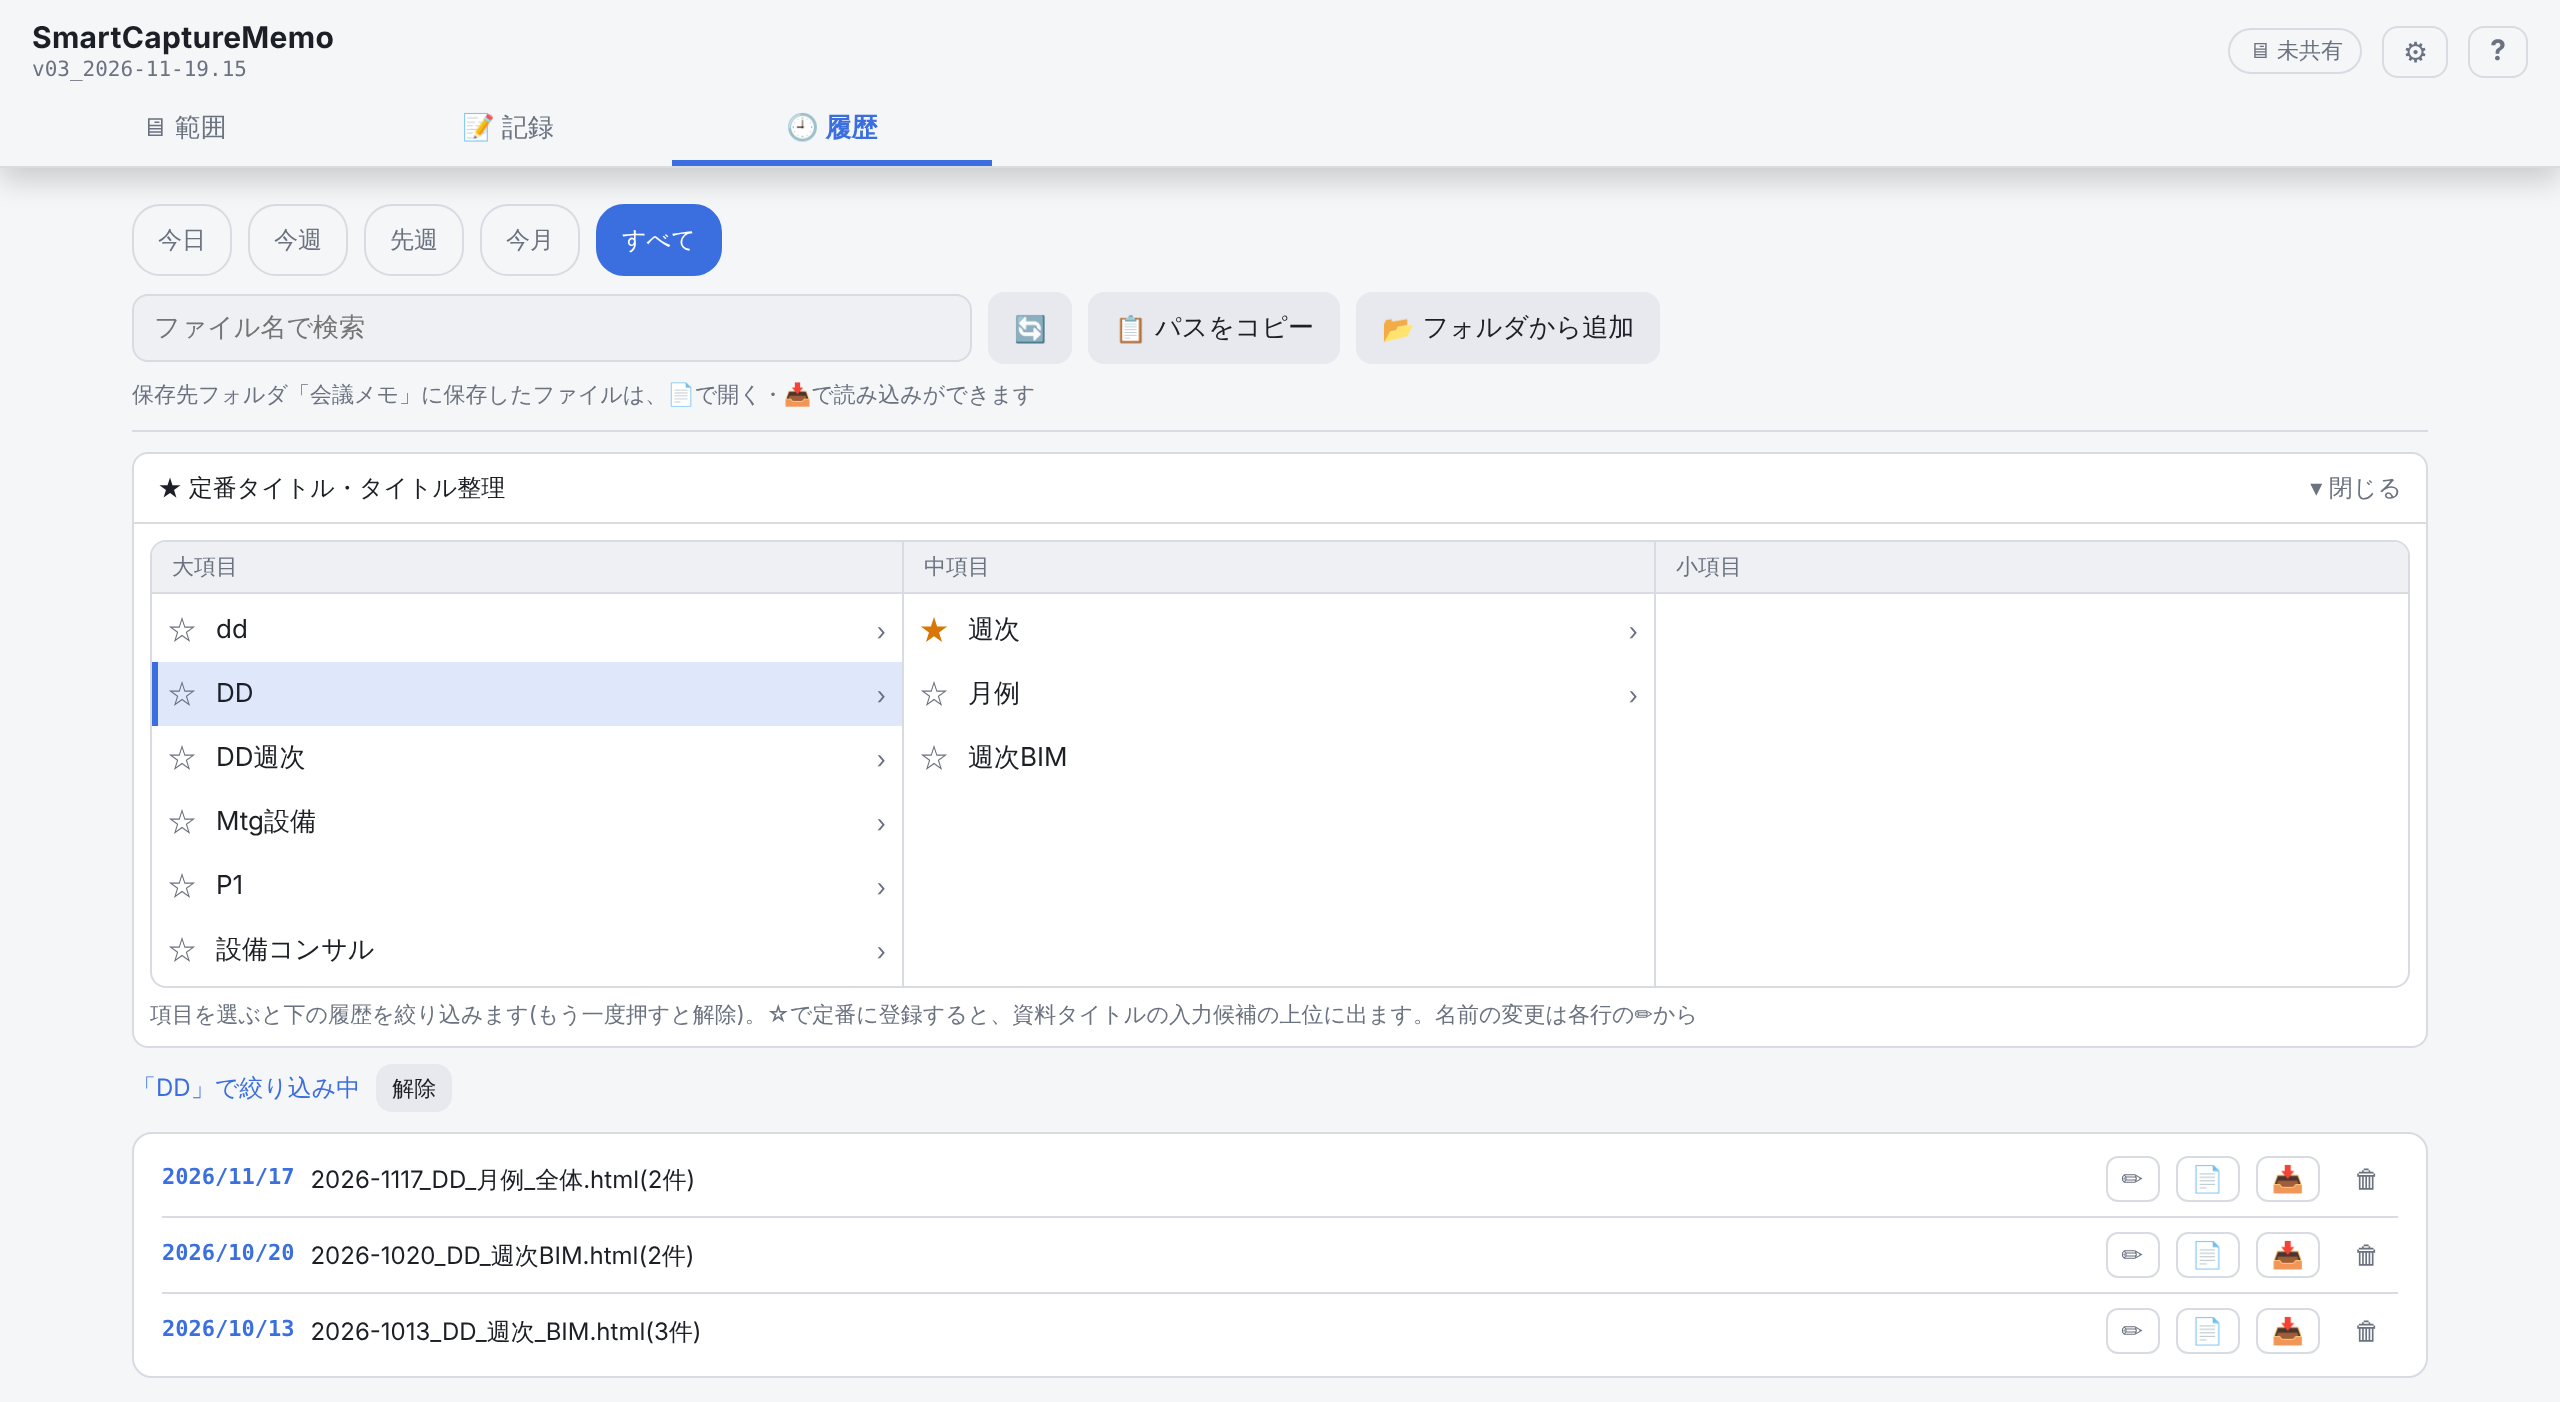
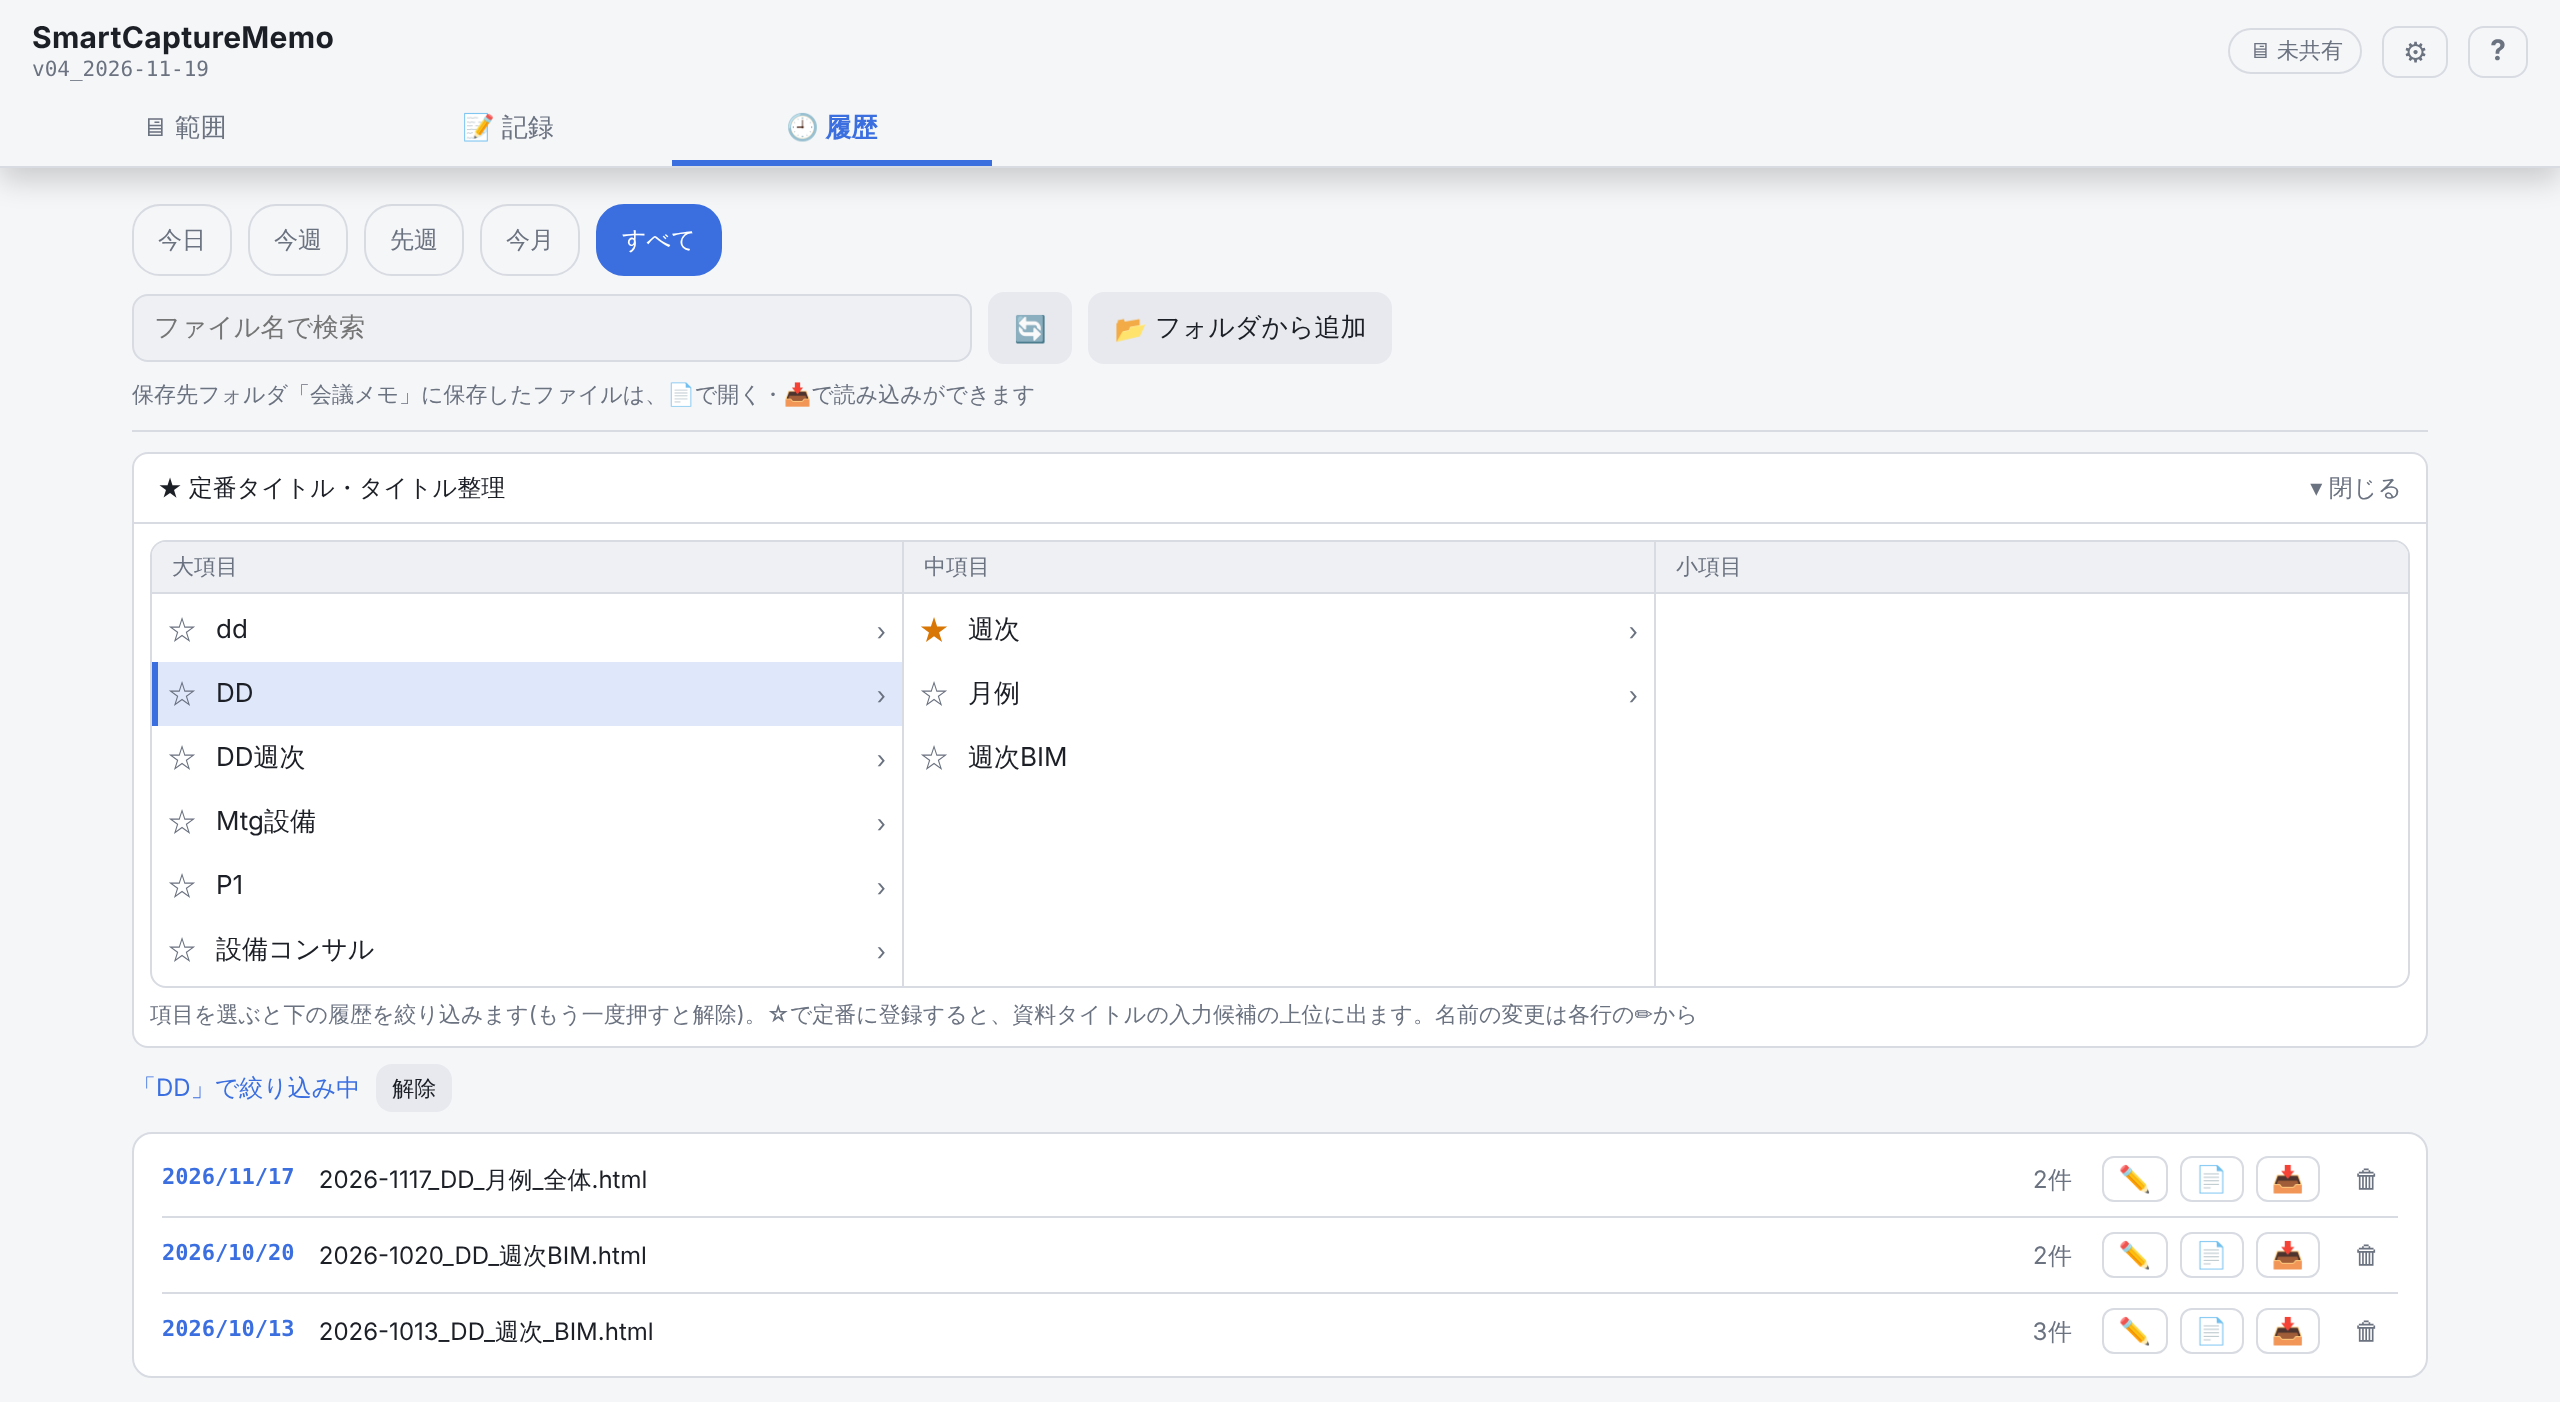
SmartCaptureMemo v04_2026-11-19: 資料タイトルの入力補助・リネーム等の機能追加を v04 として世代を上げる(v03_2026-11-19.15〜.19 を統合)
Claude-Session: https://claude.ai/code/session_01YFt5PcScnp5RMTFYd4nYm6

diff --git a/SmartCaptureMemo/index.html b/SmartCaptureMemo/index.html
@@ -905,7 +905,7 @@
           <div class="tcCol"><div class="tcHead">中項目</div><ul class="tcList" id="tcList1"></ul></div>
           <div class="tcCol"><div class="tcHead">小項目</div><ul class="tcList" id="tcList2"></ul></div>
         </div>
-        <div class="hint">項目を選ぶと下の履歴を絞り込みます(もう一度押すと解除)。☆で定番に登録すると、資料タイトルの入力候補の上位に出ます。名前の変更は各行の✏から</div>
+        <div class="hint">項目を選ぶと下の履歴を絞り込みます(もう一度押すと解除)。☆で定番に登録すると、資料タイトルの入力候補の上位に出ます。名前の変更は各行の✏から</div>
       </div>
       <div id="titleOrgFilter" hidden></div>
     </div>
@@ -4346,7 +4346,7 @@
   });
 
   // ---------- バージョン履歴(さりげなく表記をクリックすると見られる簡易ログ) ----------
-  const APP_VERSION = "v03_2026-11-19.19"; // ← バージョンはここだけ変更(画面表示・更新履歴の先頭はこの定数から反映)
+  const APP_VERSION = "v04_2026-11-19"; // ← バージョンはここだけ変更(画面表示・更新履歴の先頭はこの定数から反映)
   const VERSION_HISTORY = [
     ["v01","Screen Capture Memo(旧ツール v01〜v104)。画面共有→範囲固定→キャプチャ→メモ→HTML書き出し・書き出し履歴まで"], // 説明は文字列、または箇条書きにする場合は文字列の配列
     ["v02_2026-11-18",["SmartCaptureMemoとして新規作成(Screen Capture Memo v104がベース、保存データは別)","上部タブ(範囲/記録/履歴)+⚙設定へ再編","見出しのセクション化(現在の見出しへ追加・目次・折りたたみ・Enterで連続登録)","履歴の期間フィルタ・検索・ファイルを開く/読み込む","保存先フォルダを毎回の選択ダイアログから許可確認方式へ"]],
@@ -4376,11 +4376,7 @@
     ["v03_2026-11-19.12","⋯メニューの項目を左寄せに"],
     ["v03_2026-11-19.13","「前回と同じ画面」の知らせを短くし、📸ボタンの下に重ねて表示(ボタン等の位置がずれないように)"],
     ["v03_2026-11-19.14","メモの装飾ツールバーに「🧹 クリア」(書式をまとめて外す)を追加"],
-    ["v03_2026-11-19.15",["資料タイトルの入力候補(「_」区切りごとに大項目→中項目→小項目、履歴と定番タイトルから)","履歴タブに「★ 定番タイトル・タイトル整理」(カラムビューで絞り込み・定番登録)","履歴の✏で名前を変更(ファイル名とファイル内の資料タイトルをまとめて変更、旧名を記録)","履歴の日付を資料の日付に変更(並び順・期間フィルタも)。ファイル名とファイル内の情報がずれている行に⚠","⚙設定に資料タイトルの入力補助のON/OFF"]],
-    ["v03_2026-11-19.16",["履歴の件数を右端に揃えて表示","同名を開いたときの過去の行は、書き出したときの名前と日時で表示(「書き出し」の文字は省略)","名前を変更したファイルに「旧名」の印(マウスを乗せると旧名一覧)","🧹 見つからない履歴をまとめて削除"]],
-    ["v03_2026-11-19.17","履歴: 左は資料の日付、ファイル名の後ろに保存日時をグレーで表示(同名の過去の行もファイル名の位置を揃える)"],
-    ["v03_2026-11-19.18",["履歴: 保存日時は日付・ファイル名にマウスを乗せたときに表示(同名の過去の行のみ常に表示)","「同名N件」を「N版」に、旧名の印をファイル名の隣へ","見つからない履歴の削除をアイコン(🧹)だけにして右端へ。対象が無いときは非表示"]],
-    ["v03_2026-11-19.19","履歴: 版を件数の左へ"]
+    ["v04_2026-11-19",["資料タイトルの入力候補(「_」区切りごとに大項目→中項目→小項目、履歴と定番タイトルから。⚙設定でON/OFF)","履歴タブに「★ 定番タイトル・タイトル整理」(カラムビューで絞り込み・定番登録)","履歴の✏で名前を変更(ファイル名とファイル内の資料タイトルをまとめて変更、旧名を記録)","履歴の日付を資料の日付に(並び順・期間フィルタも)。保存日時はマウスを乗せると表示、上書き保存は「N版」で折りたたみ","ファイル名とファイル内の情報がずれている行に⚠、見つからない履歴の一括削除(🧹)"]]
   ];
 
   const verLabel = $("verLabel");
